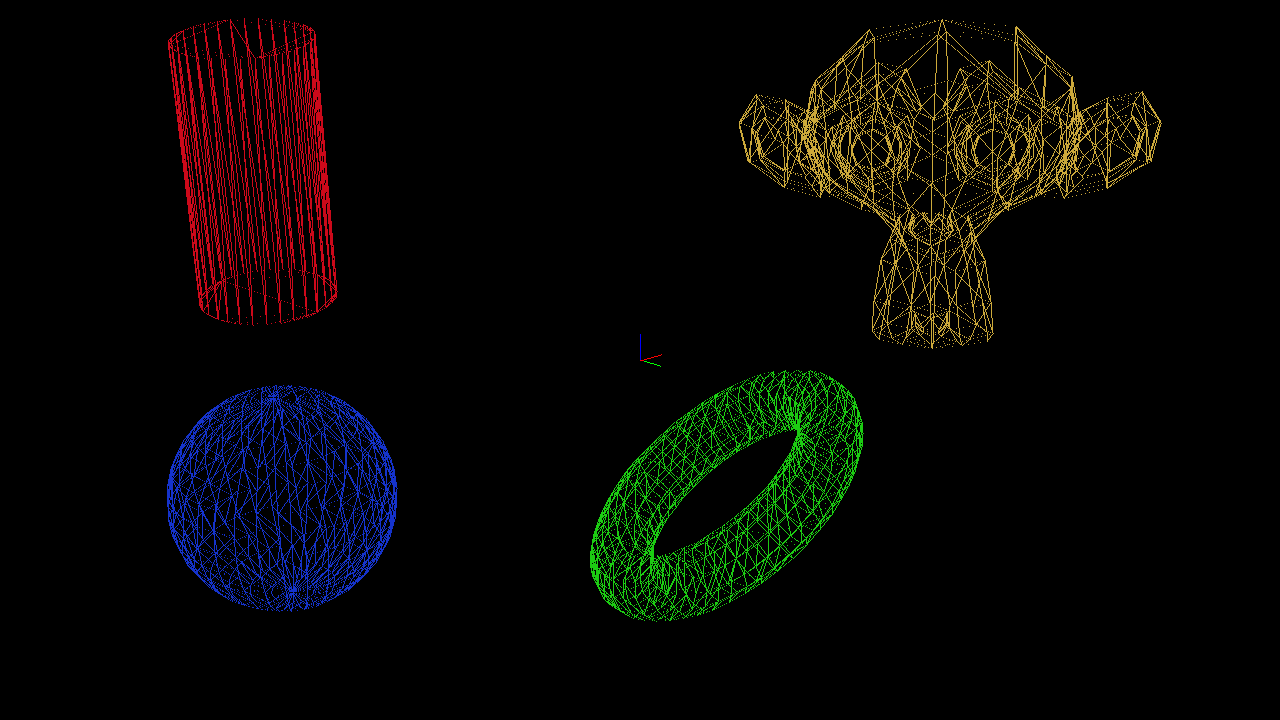
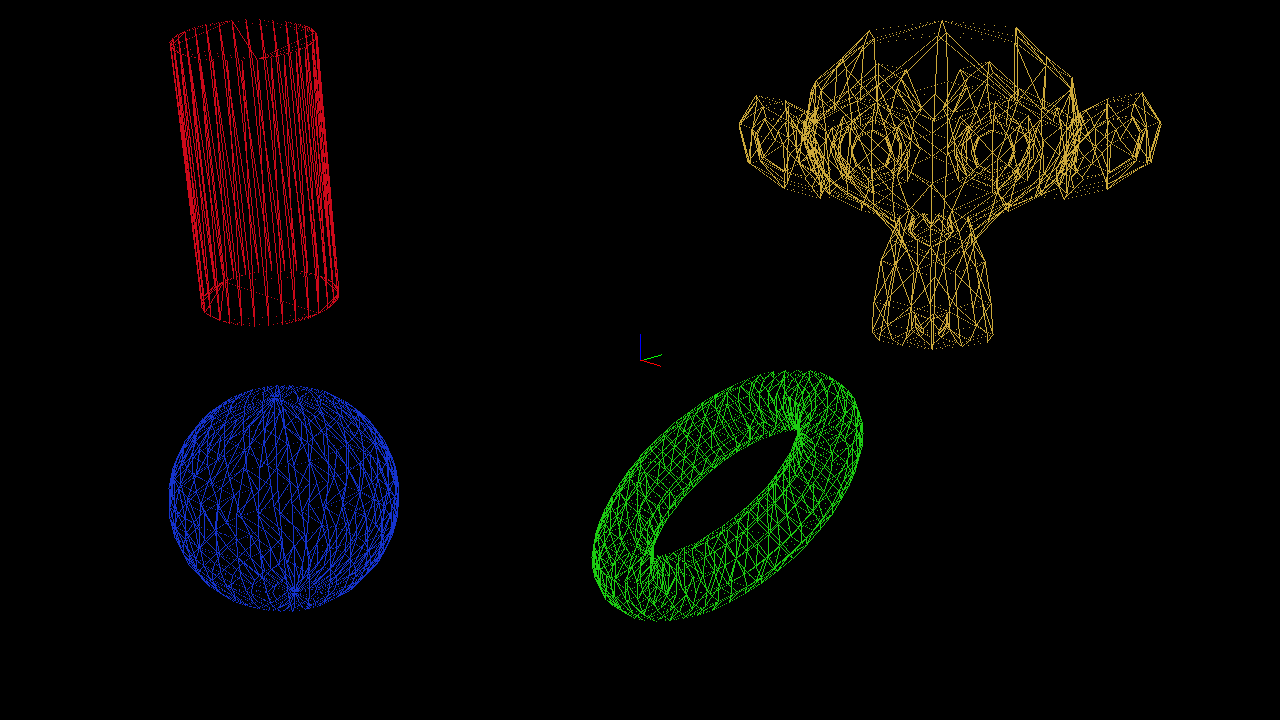
fixed axes

diff --git a/src/debug.cpp b/src/debug.cpp
@@ -14,7 +14,7 @@ void draw_debug_axes(jdscn::Camera camera, win::Canvas& canvas)
 	config::debug_cursor settings;
 	int length = settings.length;
 	float updown = camera.orientation[0] - M_PI / 2;
-	float leftright = -camera.orientation[2];
+	float leftright = -camera.orientation[2] - M_PI / 2;
 	
 	jdscn::Position2D z = {0, int(cos(updown) * -length)};
 	jdscn::Position2D y = {int(cos(leftright) * length),
